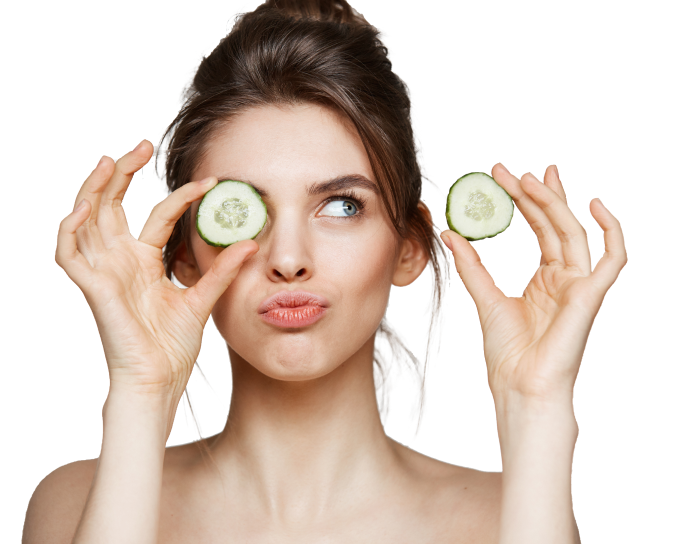
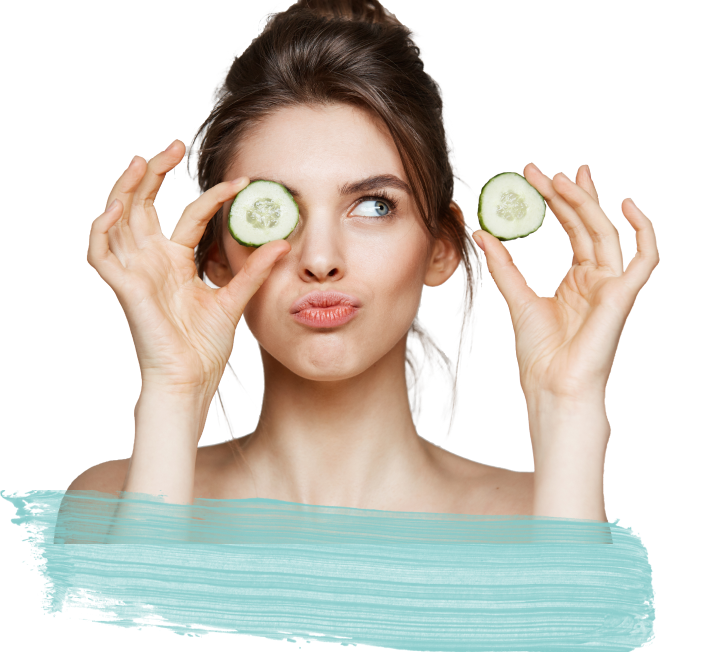
Girl united

diff --git a/src/components/Landing/MainSection/FirstScreen/first-screen.module.css b/src/components/Landing/MainSection/FirstScreen/first-screen.module.css
@@ -43,22 +43,10 @@
 .girlImg {
     position: relative;
     width: 100%;
-    height: 80%;
+    height: 95%;
     background-image: url('/assets/img/girl.png');
     background-position: center;
     background-repeat: no-repeat;
     background-size: 100%;
 }
 
-.girlImg::after {
-    content: '';
-    position: absolute;
-    width: 92%;
-    height: 25%;
-    left: -2em;
-    top: 90%;
-    background-image: url('/assets/img/hot.png');
-    background-position: center;
-    background-size: 100%;
-    background-repeat: no-repeat;
-}
